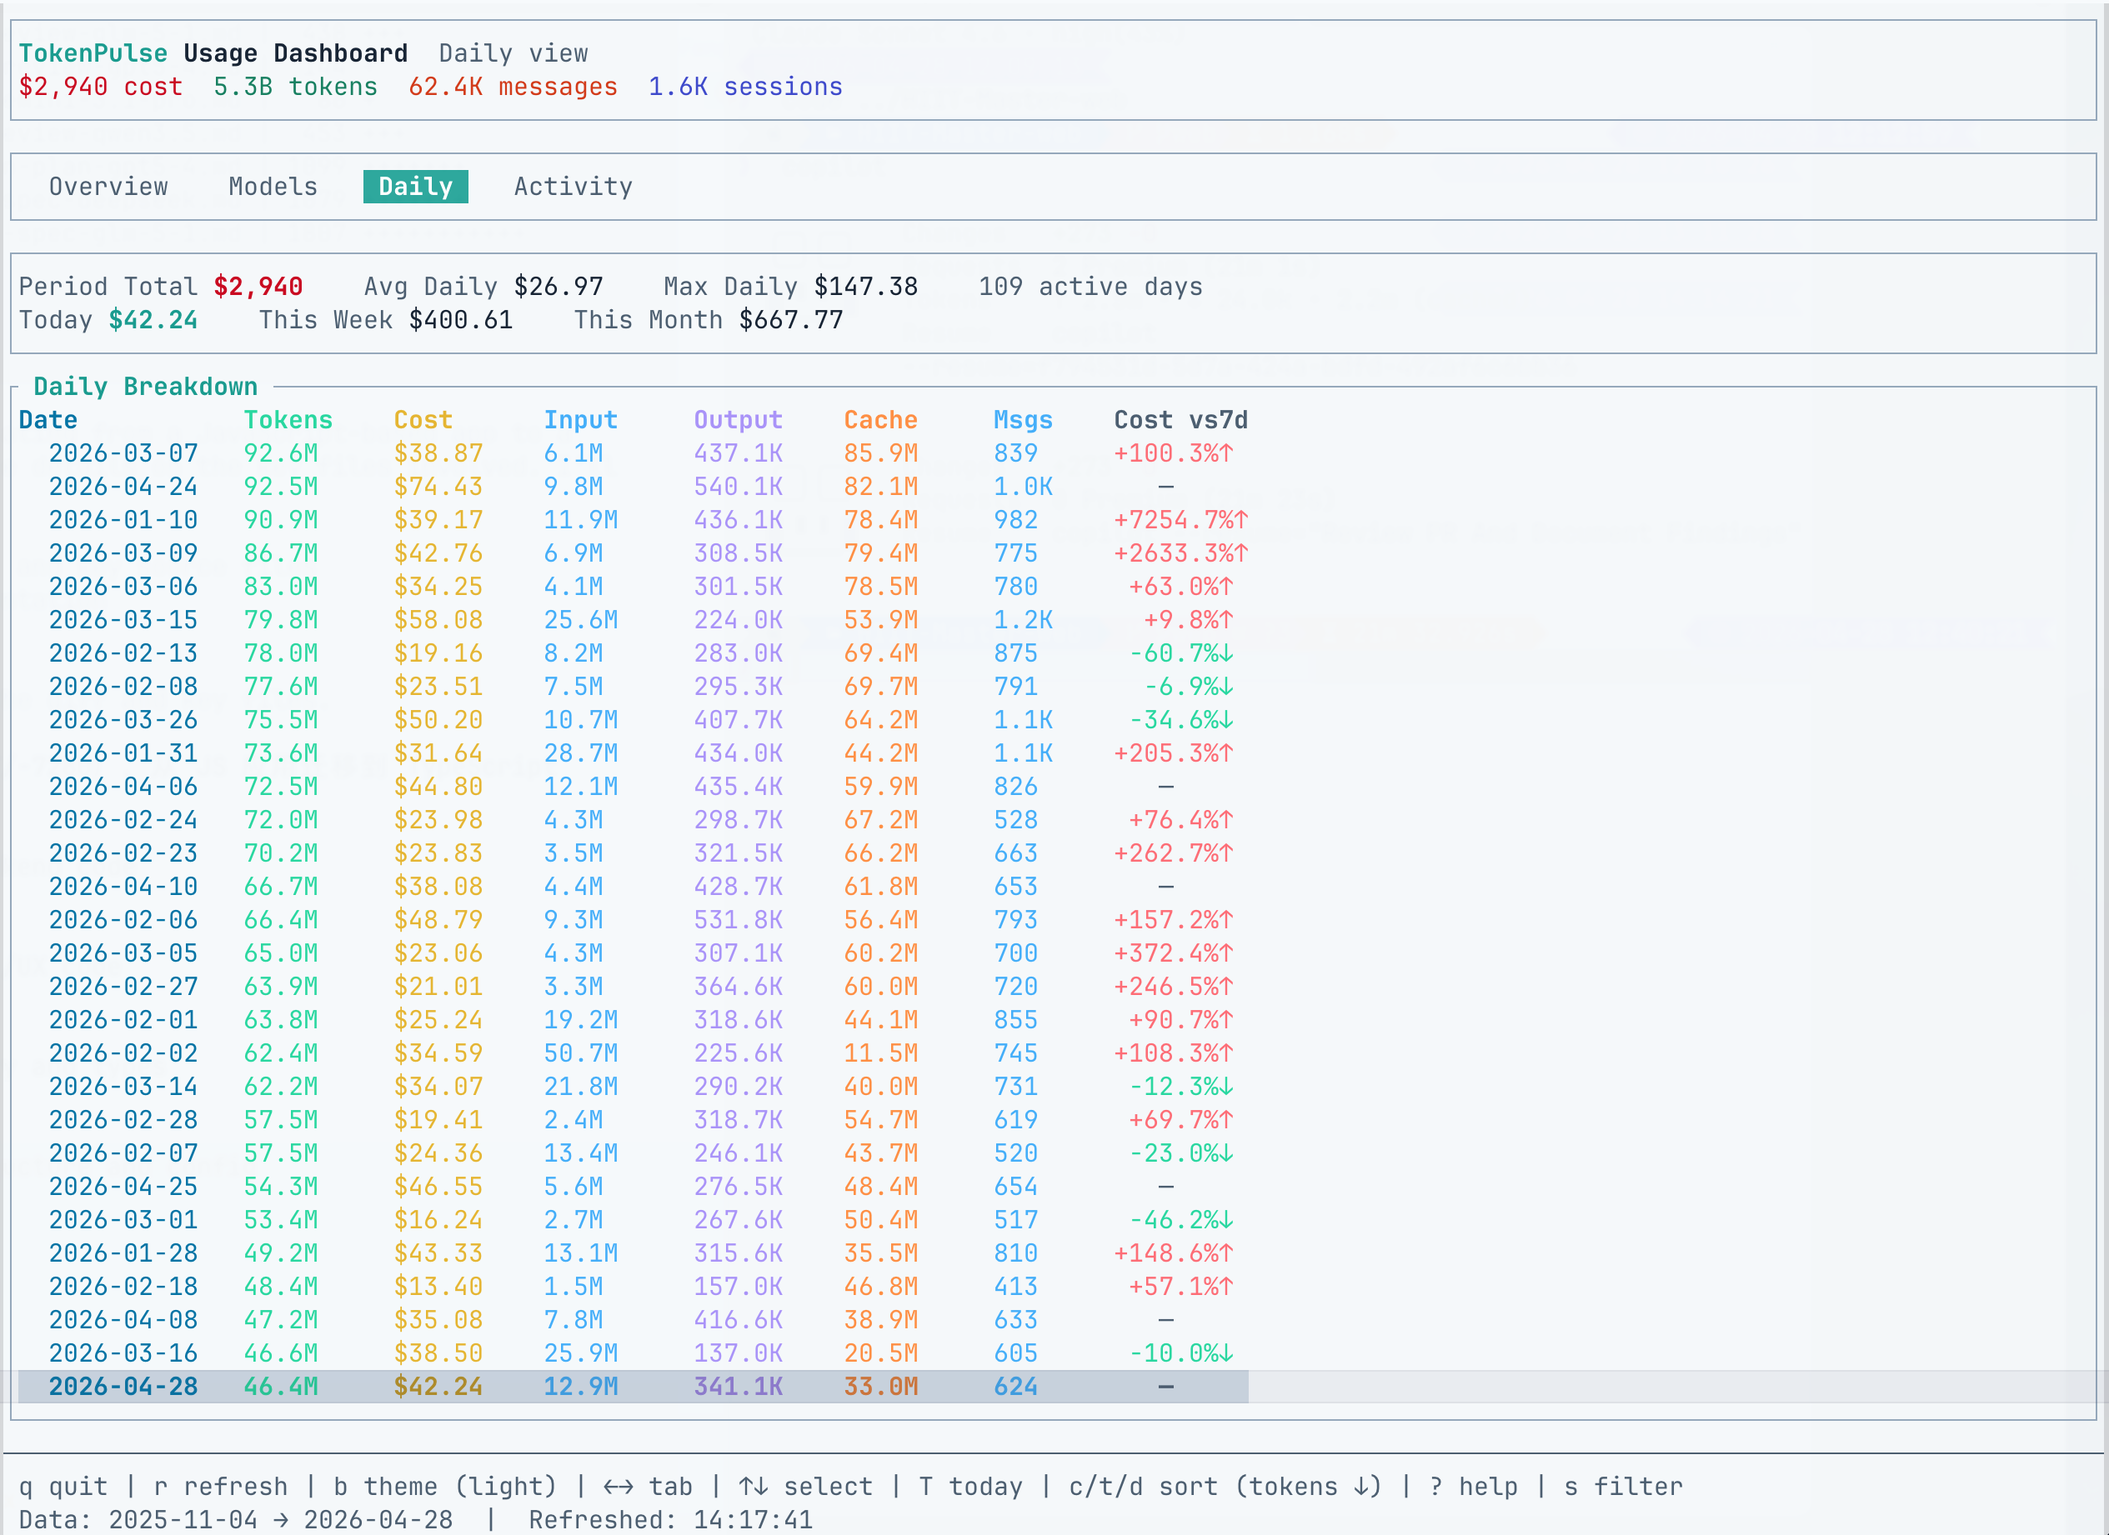
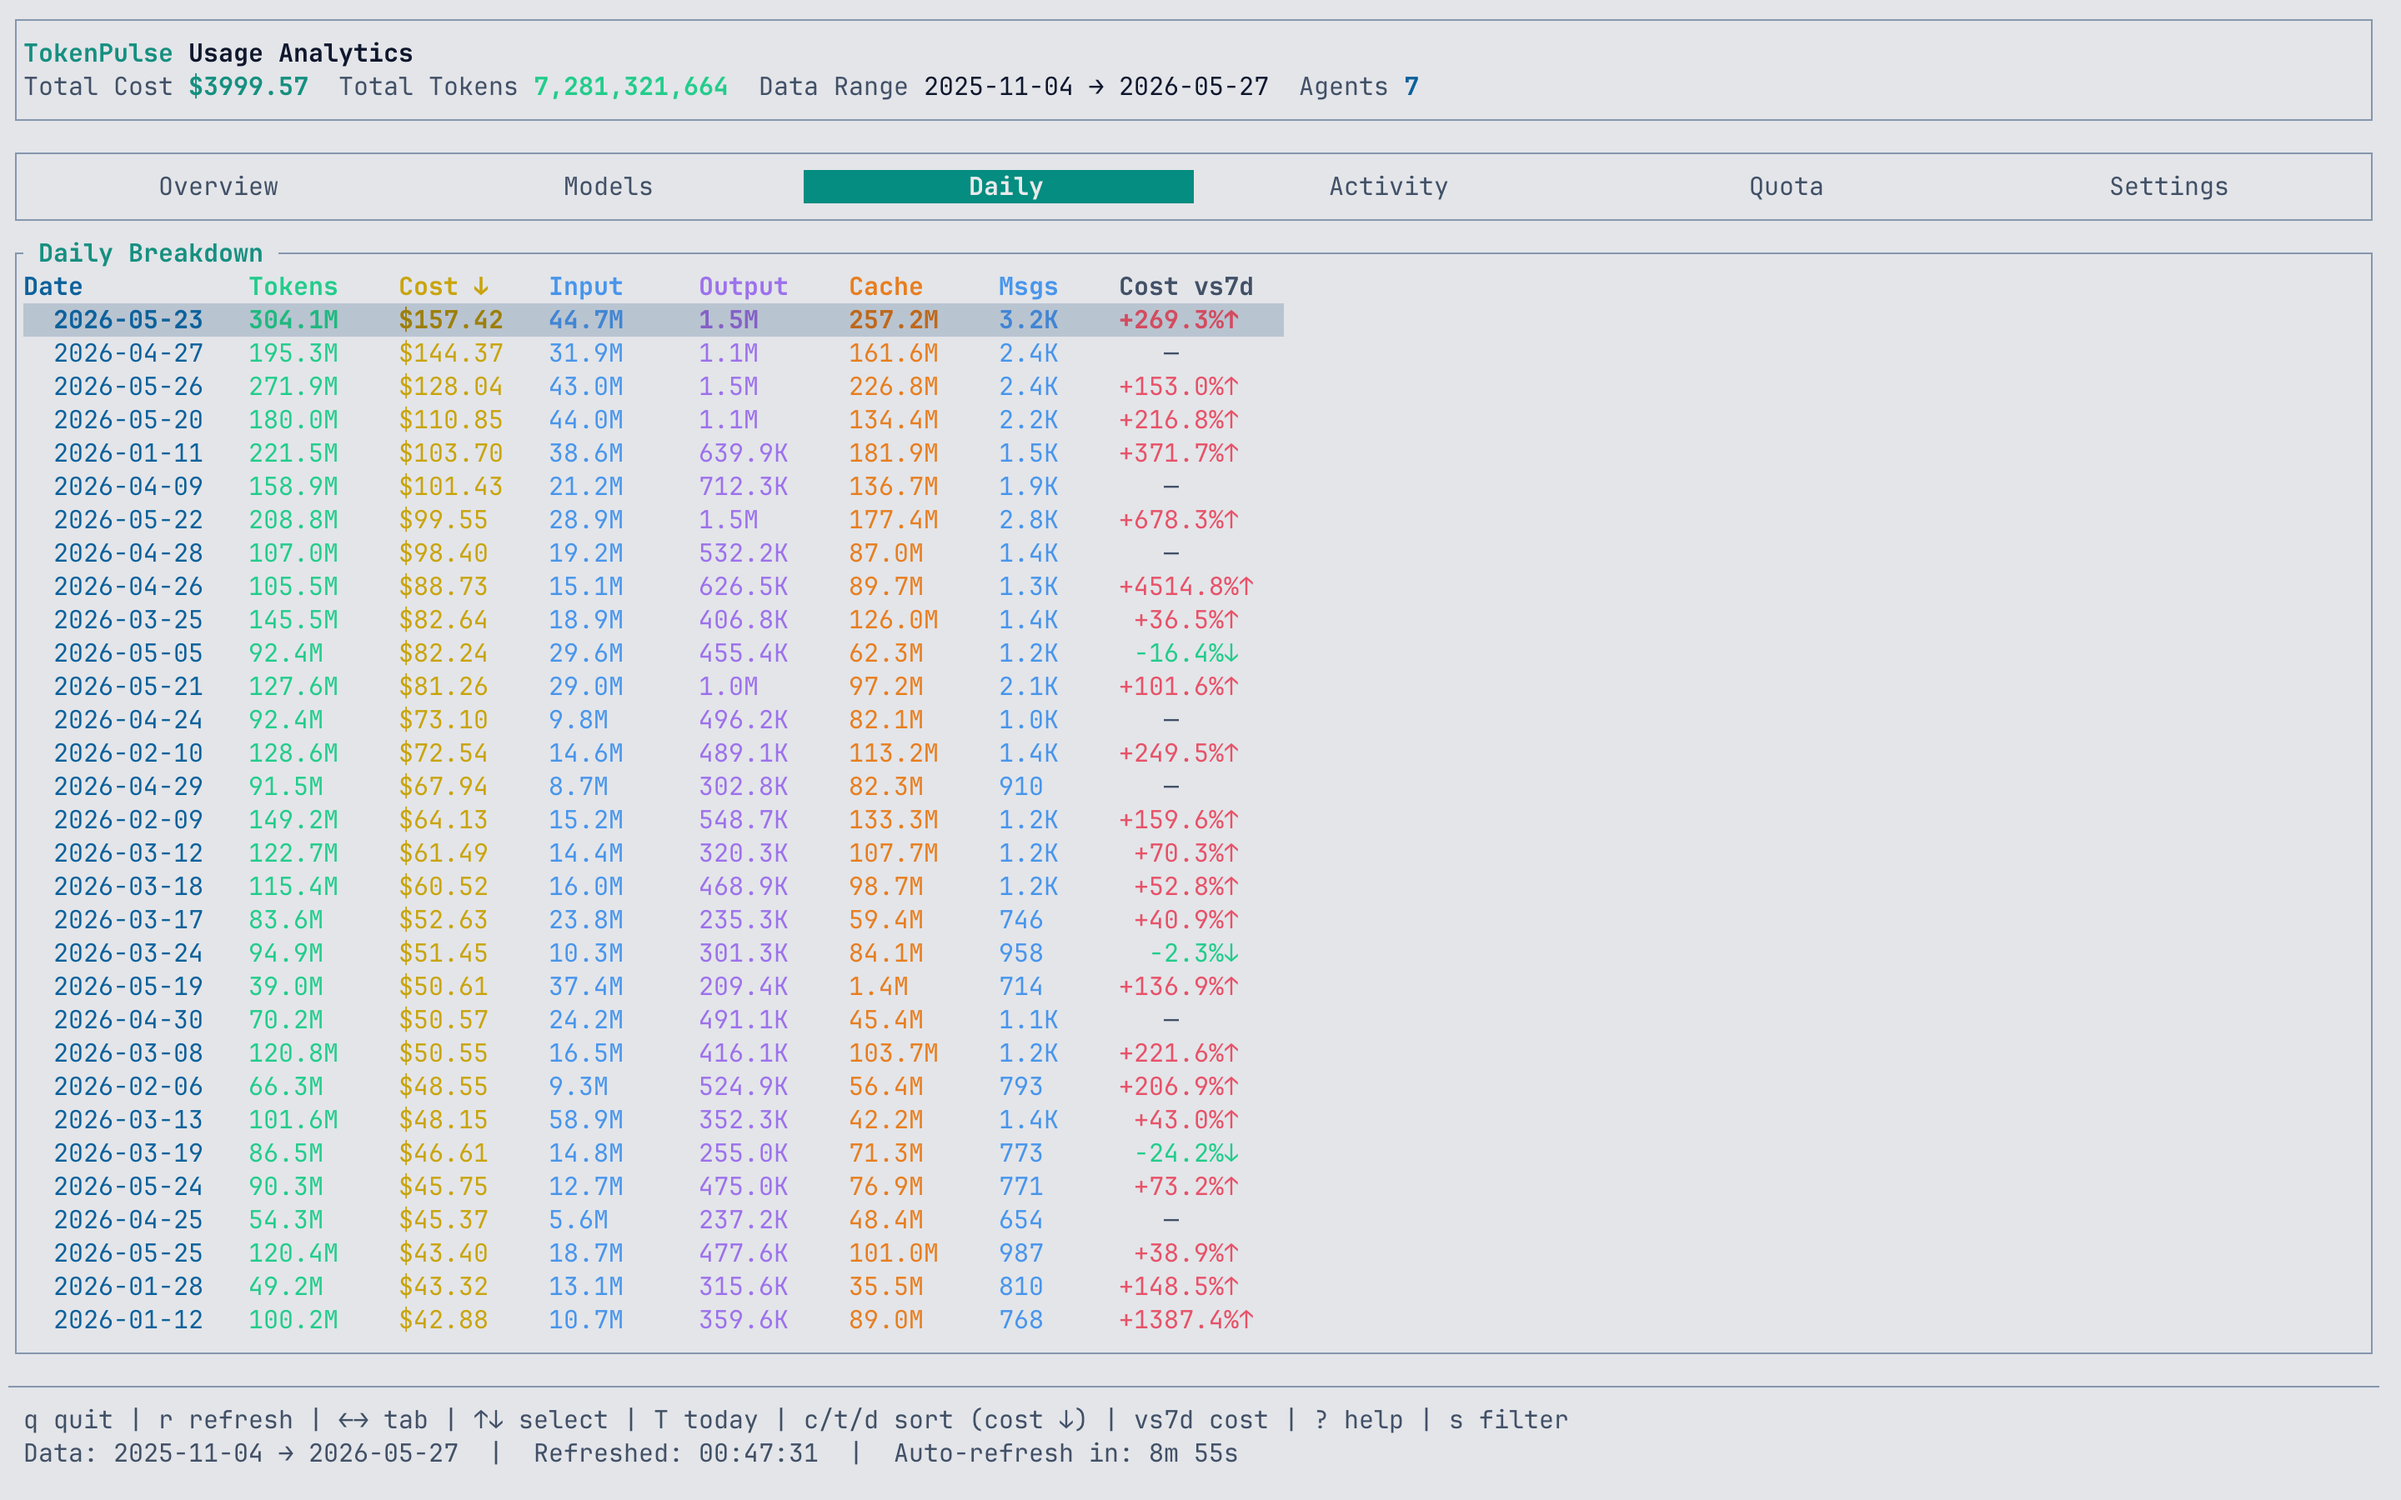
docs: update screenshots to show version 0.3.0 and add Settings tab screenshot to README

diff --git a/README.md b/README.md
@@ -43,9 +43,9 @@ Notes:
 |---|---|
 | ![Models](docs/images/models.png) | ![Daily](docs/images/daily.png) |
 
-| Activity |
-|---|
-| ![Activity](docs/images/activity.png) |
+| Activity | Settings |
+|---|---|
+| ![Activity](docs/images/activity.png) | ![Settings](docs/images/settings.png) |
 
 ## Features
 
